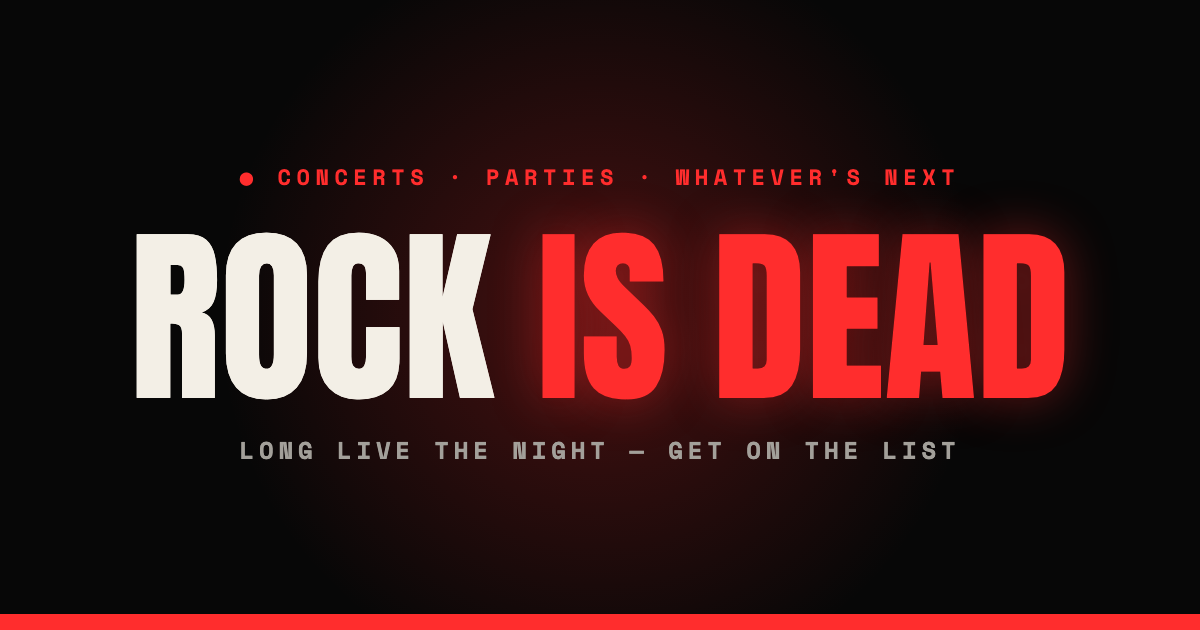
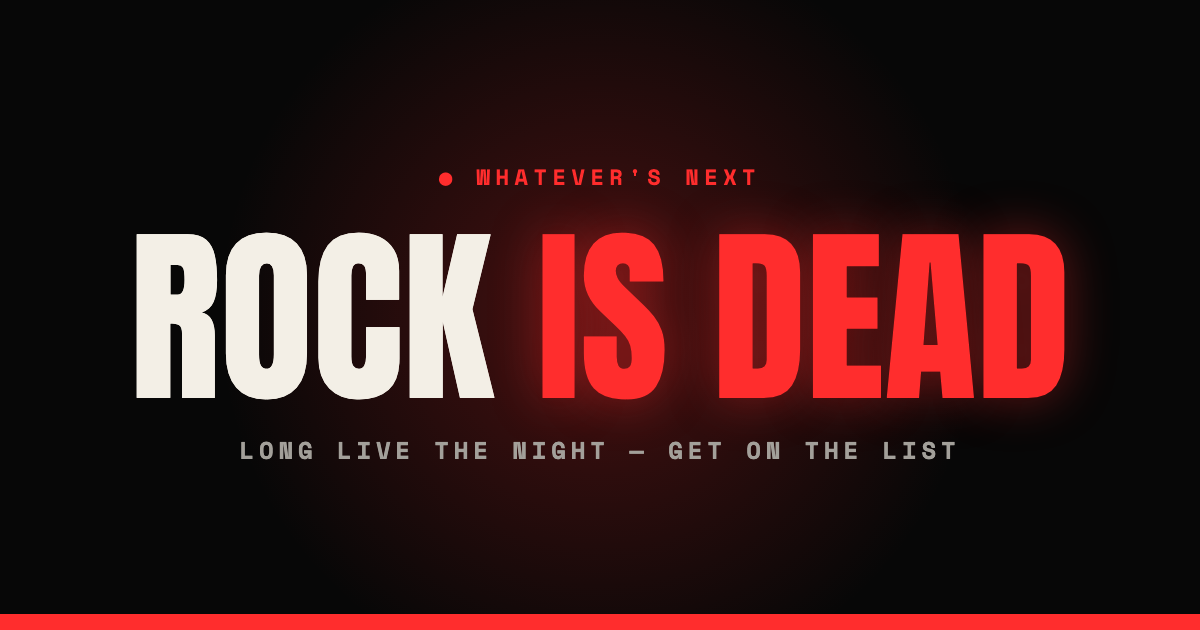
Shorten hero tagline to "Whatever's next"

Changed region(s): [[0.185, 0.2714, 0.8017, 0.3016]]

diff --git a/index.html b/index.html
@@ -55,7 +55,7 @@
     <section class="hero">
       <div class="hero__glow" aria-hidden="true"></div>
       <div class="container hero__content">
-        <p class="kicker reveal"><span class="live-dot"></span> Concerts · Parties · Whatever's next</p>
+        <p class="kicker reveal"><span class="live-dot"></span> Whatever's next</p>
         <h1 class="hero__title reveal">
           <span class="glitch" data-text="ROCK">ROCK</span>
           <span class="hero__is">is</span>
